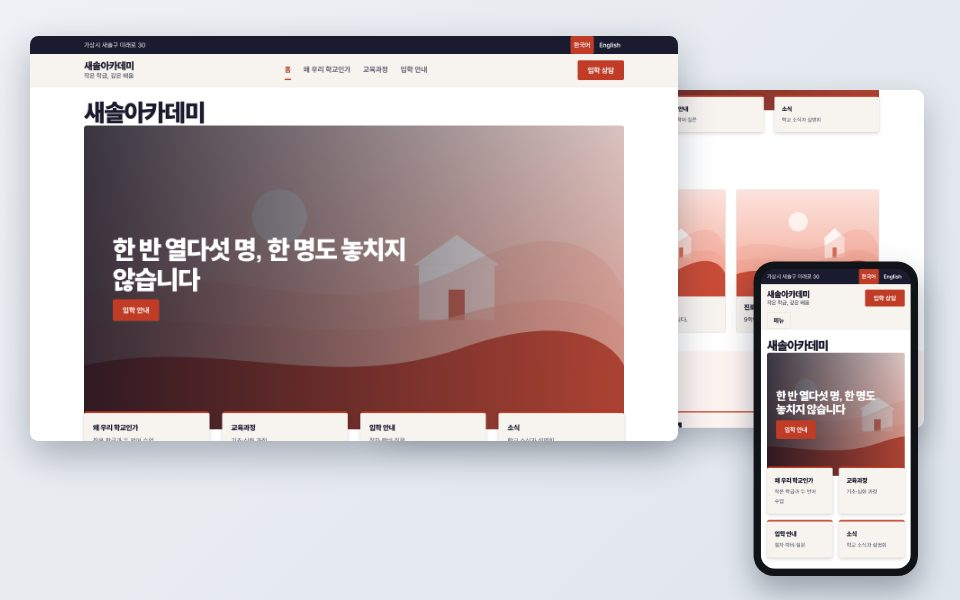
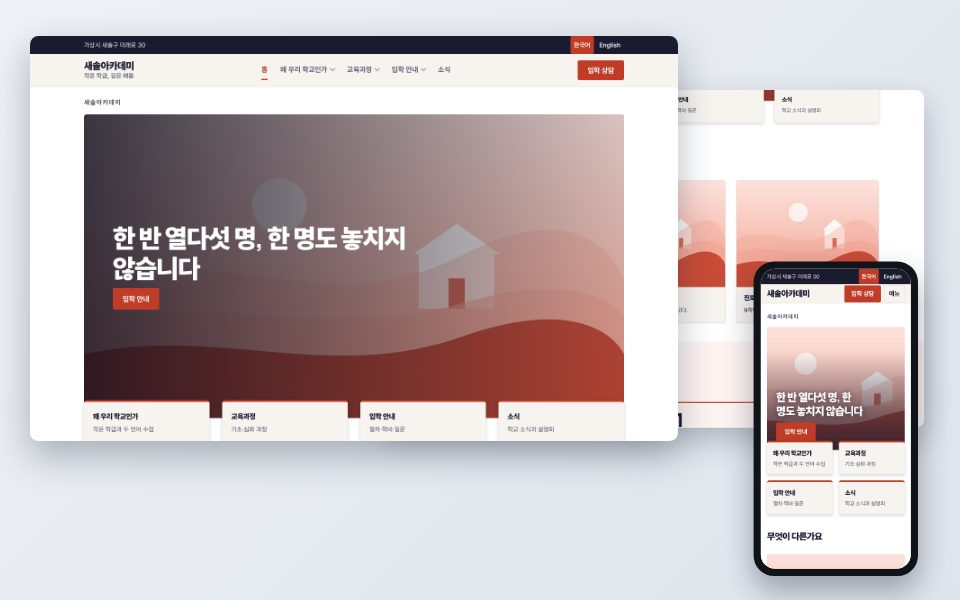
126차: 입학 모집형 템플릿 두 단계 메뉴 적용(v5)
왜 우리 학교인가(숫자로 보는 학교·졸업 후 진로) · 교육과정(학년별 과정·비교과 활동)
· 입학 안내(절차·학비·질문·입학 설명회·견학 신청) · 소식. 한·영 예시 글.

Claude-Session: https://claude.ai/code/session_013RZyUom6xS67hpTPYHpecQ

diff --git a/src/lib/site-templates.ts b/src/lib/site-templates.ts
@@ -174,7 +174,7 @@ export const SITE_TEMPLATES: SiteTemplate[] = [
     ],
   },
   {
-    key: 'admissions', version: 4, name: '입학 모집형', theme: 'bold', langs: ['ko', 'en'],
+    key: 'admissions', version: 5, name: '입학 모집형', theme: 'bold', langs: ['ko', 'en'],
     summary: '예비 학부모가 차별점을 보고 문의·견학·지원으로 이어지게 합니다.',
     fits: ['신입생을 모집하는 사립·국제학교'], firstScreen: '차별점 3가지 · 입학 단추',
     mustHave: ['입학 절차', '학비·추가 비용', '자주 묻는 질문', '문의처'],
@@ -191,16 +191,21 @@ export const SITE_TEMPLATES: SiteTemplate[] = [
       ], { site: contact({ label: '입학 상담', href: '/p/admissions', en: 'Book a visit' }) }),
       page('why', 1, kb('왜 우리 학교인가', 'Why us'), [
         section({ template: 'media-left', title: kb('[졸업생·학부모 이야기]', '[A graduate or parent story]'), body: kb('[실제 이야기 — 이름은 허락받은 경우만]', '[A real story, names only with permission]') }),
-        section({ template: 'facts', variant: 'stats', title: kb('숫자로 보는 학교', 'At a glance'), items: [{ title: kb('[학생 수]', '[Number of students]'), body: kb('[설명]', '[Description]') }, { title: kb('[교사 1인당 학생]', '[Students per teacher]'), body: kb('[설명]', '[Description]') }] }),
+        section({ anchor: 'glance', template: 'facts', variant: 'stats', title: kb('숫자로 보는 학교', 'At a glance'), items: [{ title: kb('[학생 수]', '[Number of students]'), body: kb('[설명]', '[Description]') }, { title: kb('[교사 1인당 학생]', '[Students per teacher]'), body: kb('[설명]', '[Description]') }] }),
+        // 126차: 왜 우리 학교 하위 메뉴 — 졸업 후 진로
+        section({ anchor: 'graduates', template: 'facts', title: kb('졸업 후 진로', 'After graduation'), items: [1, 2, 3].map((i) => ({ title: kb(`[입학 진로 ${i}]`, `[Admissions path ${i}]`), body: kb(`[입학 진로 ${i} 설명]`, `[Admissions path ${i} note]`) })) }),
       ]),
       page('curriculum', 2, kb('교육과정', 'Curriculum'), [
-        section({ template: 'steps', title: kb('학년별 과정', 'Courses by grade'), items: [{ title: kb('[과정 1]', '[Course 1]'), body: kb('[설명]', '[Description]') }, { title: kb('[과정 2]', '[Course 2]'), body: kb('[설명]', '[Description]') }] }),
+        section({ anchor: 'courses', template: 'steps', title: kb('학년별 과정', 'Courses by grade'), items: [{ title: kb('[과정 1]', '[Course 1]'), body: kb('[설명]', '[Description]') }, { title: kb('[과정 2]', '[Course 2]'), body: kb('[설명]', '[Description]') }] }),
+        section({ anchor: 'beyond', template: 'cards', title: kb('비교과 활동', 'Beyond the classroom'), items: [1, 2, 3].map((i) => ({ title: kb(`[입학 비교과 ${i}]`, `[Admissions activity ${i}]`), body: kb(`[입학 비교과 ${i} 설명]`, `[Admissions activity ${i} note]`) })) }),
       ]),
       page('admissions', 3, kb('입학 안내', 'Admissions'), [
-        section({ template: 'steps', title: kb('입학 절차', 'How to apply'), items: [{ title: kb('문의', 'Enquire'), body: kb('[문의 방법]', '[How to enquire]') }, { title: kb('견학·상담', 'Visit'), body: kb('[일정]', '[Schedule]') }, { title: kb('지원', 'Apply'), body: kb('[서류·전형]', '[Documents · assessment]') }, { title: kb('결과', 'Result'), body: kb('[발표·등록]', '[Results · enrolment]') }] }),
-        section({ template: 'facts', title: kb('학비와 비용', 'Tuition & fees'), items: [{ title: kb('[수업료]', '[Tuition]'), body: kb('[금액·납부]', '[Amount · payment]') }, { title: kb('[기타 비용]', '[Other costs]'), body: kb('[기숙사·급식·체험 등]', '[Boarding, meals, trips]') }] }),
-        section({ template: 'facts', variant: 'faq', title: kb('자주 묻는 질문', 'FAQ'), items: [{ title: kb('[질문]', '[Question]'), body: kb('[답]', '[Answer]') }] }),
-        { type: 'inquiry', title: kb('견학·상담 신청', 'Book a visit'), body: kb('[신청 안내 한 줄]', '[One line about booking]') },
+        section({ anchor: 'process', template: 'steps', title: kb('입학 절차', 'How to apply'), items: [{ title: kb('문의', 'Enquire'), body: kb('[문의 방법]', '[How to enquire]') }, { title: kb('견학·상담', 'Visit'), body: kb('[일정]', '[Schedule]') }, { title: kb('지원', 'Apply'), body: kb('[서류·전형]', '[Documents · assessment]') }, { title: kb('결과', 'Result'), body: kb('[발표·등록]', '[Results · enrolment]') }] }),
+        section({ anchor: 'fees', template: 'facts', title: kb('학비와 비용', 'Tuition & fees'), items: [{ title: kb('[수업료]', '[Tuition]'), body: kb('[금액·납부]', '[Amount · payment]') }, { title: kb('[기타 비용]', '[Other costs]'), body: kb('[기숙사·급식·체험 등]', '[Boarding, meals, trips]') }] }),
+        section({ anchor: 'faq', template: 'facts', variant: 'faq', title: kb('자주 묻는 질문', 'FAQ'), items: [{ title: kb('[질문]', '[Question]'), body: kb('[답]', '[Answer]') }] }),
+        // 126차(ADR 0046): 입학 하위 메뉴 — 설명회
+        { ...events('입학 설명회', '입학 설명회', 'Open day', 'Open days'), anchor: 'open-days' },
+        { type: 'inquiry', title: kb('견학·상담 신청', 'Book a visit'), body: kb('[신청 안내 한 줄]', '[One line about booking]'), anchor: 'apply' },
         section({ template: 'cta', title: kb('견학 신청', 'Visit us'), body: kb('[연락처·견학 가능 요일]', '[Contact · visiting days]'), button: { label: kb('문의하기', 'Contact'), href: '/p/admissions' } }),
       ]),
     ],

diff --git a/src/lib/site-template-samples.ts b/src/lib/site-template-samples.ts
@@ -125,6 +125,25 @@ export const TEMPLATE_SAMPLES: Record<string, TemplateSample> = {
     images: [{ at: ['home', 'blocks', 0, 'asset'], name: 'admissions-hero' }, { at: ['home', 'blocks', 2, 'items', 0, 'asset'], name: 'admissions-class' }, { at: ['home', 'blocks', 2, 'items', 1, 'asset'], name: 'admissions-books' }, { at: ['home', 'blocks', 2, 'items', 2, 'asset'], name: 'admissions-mentor' }],
     text: {
       ...contact('새솔아카데미', '000-000-0000', 'admissions@example.org', '가상시 새솔구 미래로 30', '작은 학급, 깊은 배움'),
+      // 126차(가상 예시): 졸업 후 진로·비교과·입학 설명회
+      '[입학 진로 1]': '4년제 대학 진학 82%', '[입학 진로 1 설명]': '최근 3년 졸업생 평균(가상 수치)',
+      '[입학 진로 2]': '해외 대학 진학 11%', '[입학 진로 2 설명]': '두 언어 수업과 진로 멘토의 도움',
+      '[입학 진로 3]': '취업·창업 7%', '[입학 진로 3 설명]': '졸업 프로젝트를 이어 간 학생들',
+      '[Admissions path 1]': '82% to four-year universities', '[Admissions path 1 note]': 'Average of the last three classes (sample figure)',
+      '[Admissions path 2]': '11% to universities abroad', '[Admissions path 2 note]': 'Supported by bilingual classes and career mentors',
+      '[Admissions path 3]': '7% to work or start-ups', '[Admissions path 3 note]': 'Students who carried their graduation project forward',
+      '[입학 비교과 1]': '토론 동아리', '[입학 비교과 1 설명]': '국어·영어로 매주 한 주제를 토론합니다.',
+      '[입학 비교과 2]': '코딩 공방', '[입학 비교과 2 설명]': '학교 생활의 불편을 앱으로 고쳐 봅니다.',
+      '[입학 비교과 3]': '지역 봉사', '[입학 비교과 3 설명]': '학기마다 마을 기관과 함께 봉사합니다.',
+      '[Admissions activity 1]': 'Debate club', '[Admissions activity 1 note]': 'A new topic every week, in Korean and English.',
+      '[Admissions activity 2]': 'Coding studio', '[Admissions activity 2 note]': 'Students build apps that fix everyday problems at school.',
+      '[Admissions activity 3]': 'Community service', '[Admissions activity 3 note]': 'Each term we serve with a local partner.',
+      '[입학 설명회 행사 1 날짜]': '10.18', '[입학 설명회 행사 1]': '1차 입학 설명회', '[입학 설명회 행사 1 안내]': '오전 10시 강당 · 학교 둘러보기 포함',
+      '[입학 설명회 행사 2 날짜]': '11.08', '[입학 설명회 행사 2]': '수업 참관의 날', '[입학 설명회 행사 2 안내]': '실제 수업을 보고 교사와 이야기합니다',
+      '[입학 설명회 행사 3 날짜]': '11.29', '[입학 설명회 행사 3]': '2차 입학 설명회', '[입학 설명회 행사 3 안내]': '원서 접수 직전 마지막 설명회',
+      '[Open day event 1 date]': '10.18', '[Open day event 1]': 'First open day', '[Open day event 1 note]': '10 am in the hall, with a school tour',
+      '[Open day event 2 date]': '11.08', '[Open day event 2]': 'Class visit day', '[Open day event 2 note]': 'Watch real lessons and meet teachers',
+      '[Open day event 3 date]': '11.29', '[Open day event 3]': 'Second open day', '[Open day event 3 note]': 'The last session before applications open',
       // 107차(가상 예시)
       '[입학 바로가기 설명 1]': '작은 학급과 두 언어 수업', '[입학 바로가기 설명 2]': '기초·심화 과정', '[입학 바로가기 설명 3]': '절차·학비·질문', '[입학 바로가기 설명 4]': '학교 소식과 설명회',
       '[입학 숫자 띠 제목]': '작은 학급이 만드는 차이',
